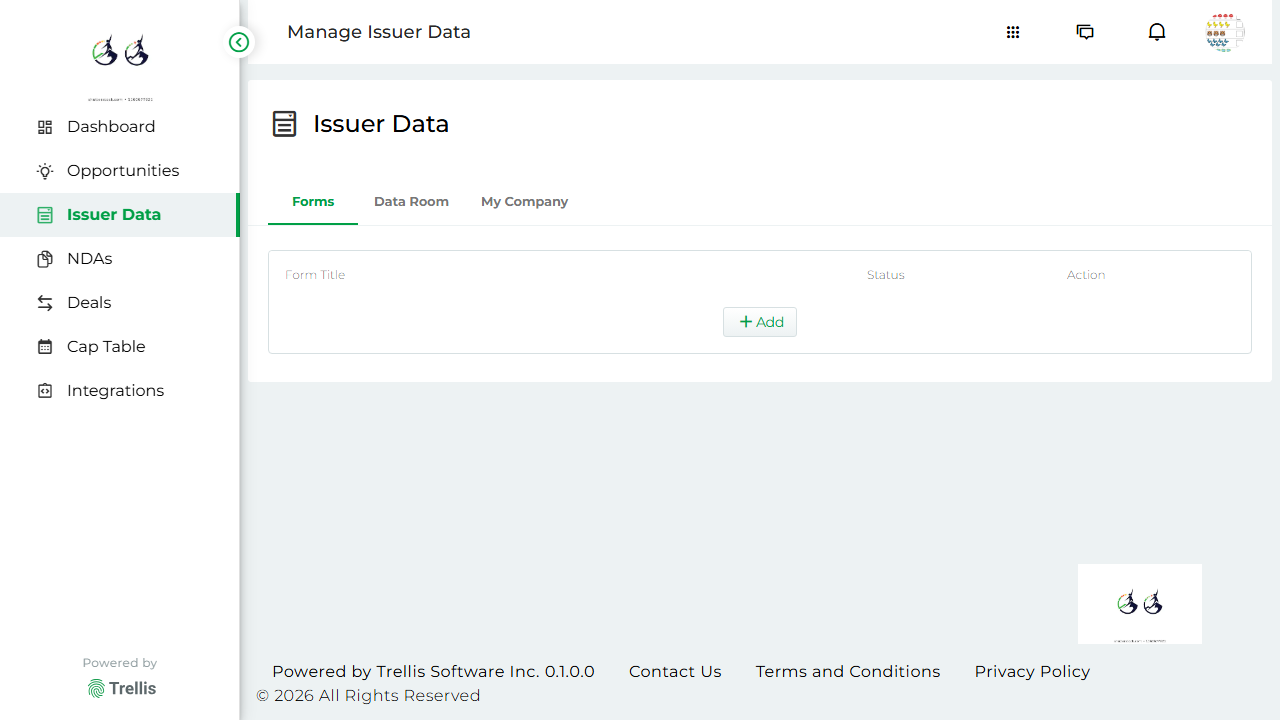
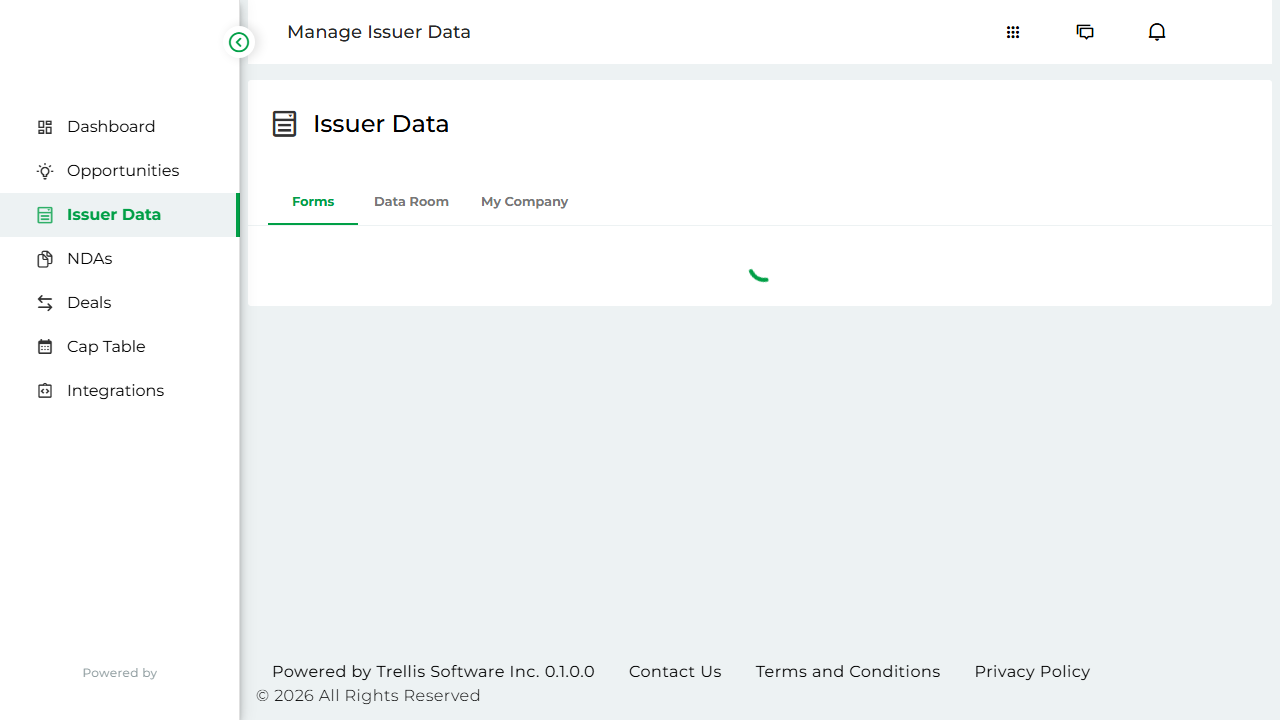
changes done now

diff --git a/tests/perfect.spec.js b/tests/perfect.spec.js
@@ -4,9 +4,8 @@ import fs from 'fs';
 
 const authFile = path.join(process.cwd(), 'storageState.json');
 
-if (!fs.existsSync(authFile)) {
-  fs.writeFileSync(authFile, JSON.stringify({ cookies: [], origins: [] }));
-}
+
+test.describe('Issuer tests', () => { // Run tests in this file serially
 
 test.use({ storageState: authFile });
 
@@ -18,7 +17,7 @@ test.beforeAll(async ({ browser }) => {
   const page = await context.newPage();
 
   await page.goto('/issuers/pages/login'); // baseURL is applied automatically
-   await page.locator('text=Your Email').fill("[email redacted]");
+   await page.locator('text=Your Email').fill("[email redacted]");
   await page.locator('//input[@type="password"]').nth(1).fill("Indexnine@123");
   //await expect(page.locator('.v-btn__content')).toBeEnabled();
   await page.locator('.v-btn__content').first().click();
@@ -50,13 +49,14 @@ test.afterEach(async ({ page }, testInfo) => {
   }
 });
 
-test('dashboard loads correctly', async ({ page }) => {
+test('issuer data forms displayed', async ({ page }) => {
   await page.goto('/issuers/issuer-data/forms');   // ✅ relative path
   await expect(page.locator('.action')).toHaveText('Action');
 });
 
-test('profile page loads correctly', async ({ page }) => {
+test('issuer data documents displayed', async ({ page }) => {
   await page.goto('/issuers/issuer-data/dataroom');     // ✅ relative path
  await expect(page.getByText('All Documents')).toHaveText('All Documents');
 
 });
+})

diff --git a/playwright3.config.js b/playwright3.config.js
@@ -4,5 +4,6 @@ export default defineConfig({
   use: {
     baseURL: 'https://uat.trellisplatform.com',
     headless: true,
+    workers : 2
   },
 });